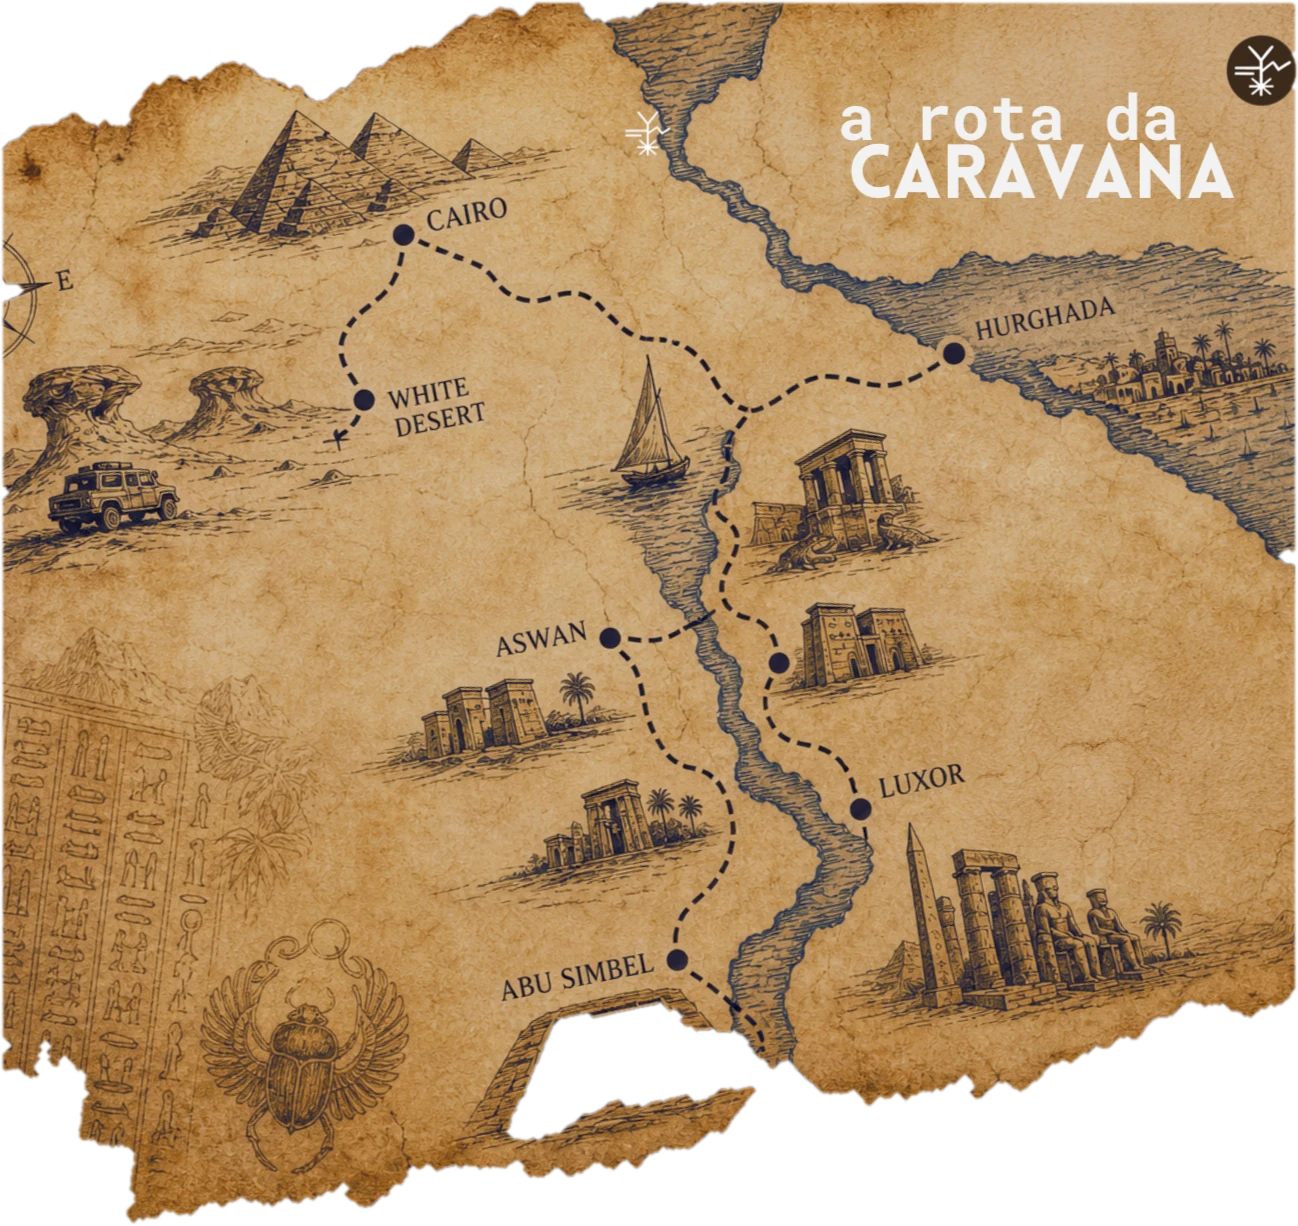
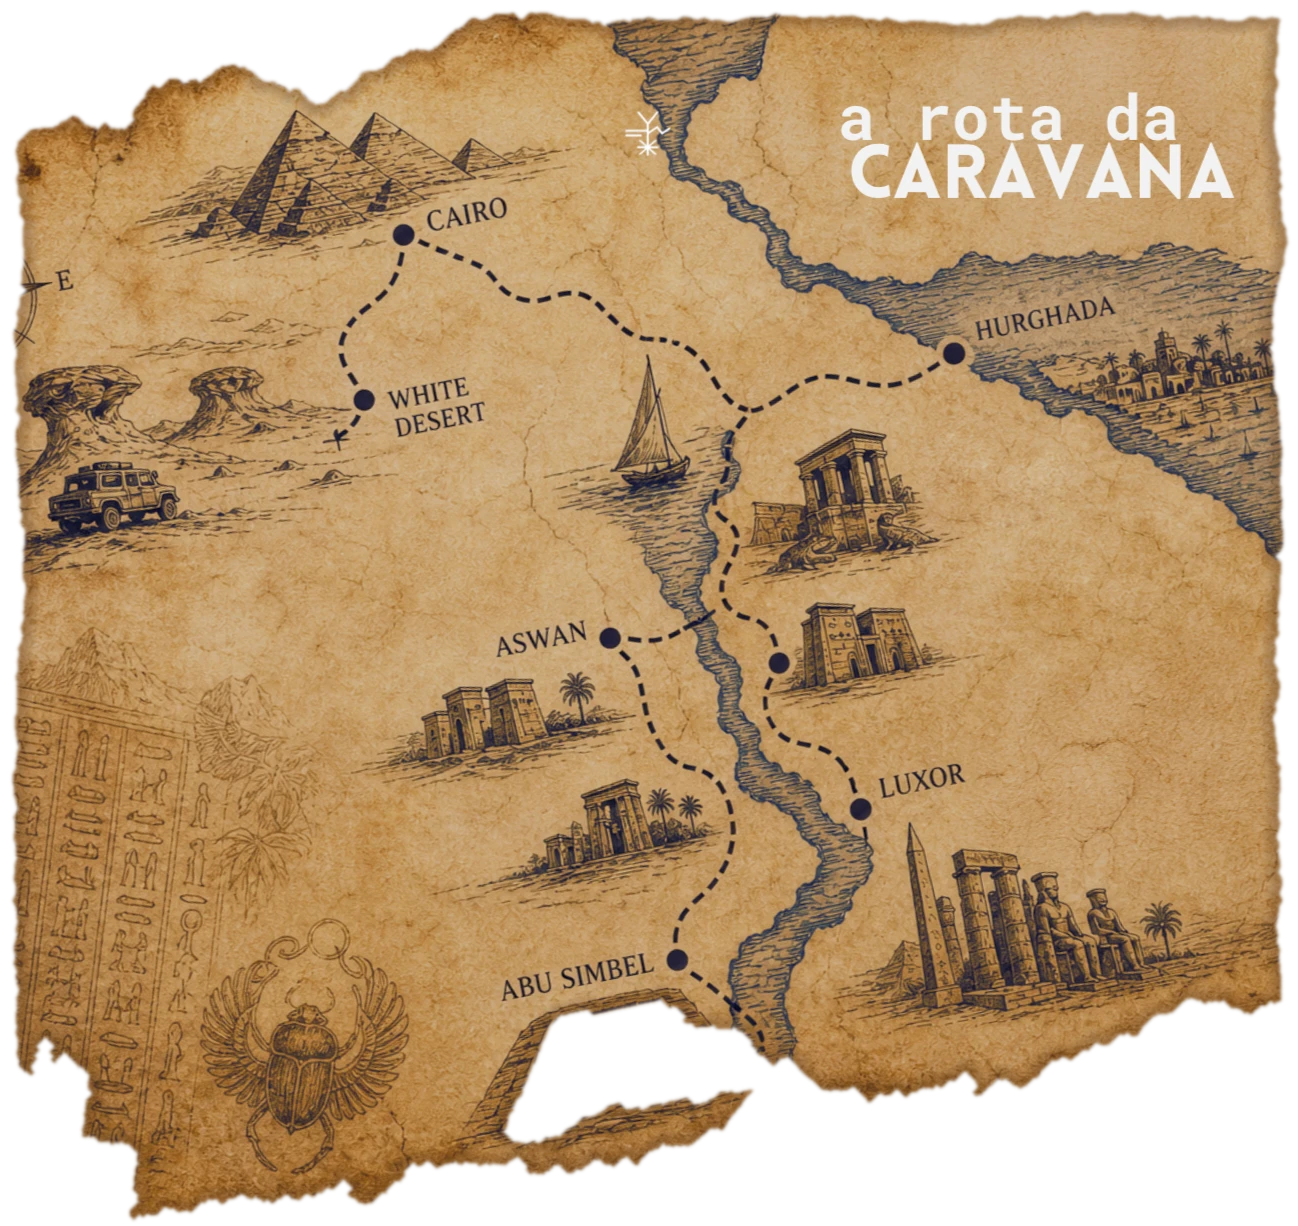
Egito: mapa da página inicial com bordas rasgadas bem acabadas, sem o selo do canto e sem a placa da cidade; frases curtas do Egito que giram numa linha só
Claude-Session: https://claude.ai/code/session_017RJGScnowdndvDzY2p9N3m

diff --git a/APP CARAVANA EGITO/app/caravana-do-ceu.html b/APP CARAVANA EGITO/app/caravana-do-ceu.html
@@ -2168,7 +2168,7 @@ html[data-tab="explorador"] .controls .lab{color:#B5402A;text-shadow:none}
   background:linear-gradient(#3B2A1C,#24180F);border:2px solid #D4A84F;border-radius:6px;box-shadow:0 4px 10px rgba(40,24,10,.4);white-space:nowrap}
 .mmplaca small{font:600 9.5px var(--ui);letter-spacing:.22em;text-transform:uppercase;color:#D4A84F}
 .mmplaca b{font:500 16px/1.15 "Cinzel",Georgia,serif;letter-spacing:.04em;color:#F6E6BF}
-.mapahero .intro{margin-top:18px}
+
 .mapahero .logo.moeda{width:78px;margin-bottom:-4px}
 
 /* no mapa da rota a fase é só um anel em volta do ponto que já está desenhado (sem cobrir os nomes) */
@@ -2181,6 +2181,8 @@ html[data-tab="explorador"] .controls .lab{color:#B5402A;text-shadow:none}
 .mmponto{fill:transparent;stroke:none}
 .mmponto.aceso{fill:#F2C14E;stroke:#7A4A12;stroke-width:2}
 .mmexp{width:12%}
+/* frase que gira embaixo do mapa: sempre uma linha só */
+.mapahero .intro{white-space:nowrap;font-size:clamp(11.5px,3.45vw,15px);min-height:0!important;margin-top:6px;max-width:100%;overflow:hidden;text-overflow:ellipsis}
 </style>
 
 <div class="app">
@@ -2614,30 +2616,26 @@ function contador(n, rotulo) {
 const FRASES = [
   "Treze dias atravessando o Egito de norte a sul.",
   "Uma caravana é feita de quem caminha junto.",
-  "Caminhos abertos e chuva de bênçãos. É o meu destino, é o que vou encontrar.",
+  "Caminhos abertos e chuva de bênçãos.",
   "Cada manhã, uma nova partida.",
   "Eu vim pra Terra pra me vestir de quem eu sou.",
-  "Explorando nossa origem nos damos conta de que somos infinitos.",
-  "Da mítica Atlântida às escolas iniciáticas do Antigo Egito.",
-  "Água, mapas e céu aberto para cada dia da travessia.",
-  "De pirâmides, templos, desertos e o icônico Mar Vermelho.",
-  "Siga a rota, ganhe os carimbos, encontre a caravana.",
-  "Que eu pise com passos firmes no labirinto da mente.",
-  "Vento me leva, vento me eleva pra atravessar todos os mundos.",
-  "Um enigma ainda vivo, inscrito nas pedras, nos templos e nos símbolos.",
-  "Partimos de madrugada, quando as estrelas orientam a rota.",
-  "Especiarias, mapas e força para a longa jornada.",
-  "Eu vou seguindo meu caminho no silêncio do meu ser.",
-  "Tudo o que você precisa para a travessia, num só lugar.",
-  "Eu trarei do silêncio minha paz.",
-  "Você não volta da Caravana. Você chega em casa diferente.",
-  "Nunca foi sobre estar sozinha, sempre foi sobre estar rodeada do que se vê e do invisível.",
+  "Explorando a origem, nos sabemos infinitos.",
+  "Das escolas iniciáticas do Antigo Egito.",
+  "Pirâmides, templos, desertos e o Mar Vermelho.",
+  "Siga a rota, ganhe os carimbos.",
+  "Um enigma ainda vivo, inscrito nas pedras.",
+  "Partimos quando as estrelas orientam a rota.",
+  "O Nilo leva, o deserto ensina.",
+  "Eu trarei do silêncio a minha paz.",
+  "Você chega em casa diferente.",
   "O Egito te ensina que o tempo é outra coisa.",
-  "Eu não sou daqui, eu vim de longe, lá das estrelas.",
-  "Que todo esse percorrer seja um estado de celebração e reencontro.",
+  "Eu vim de longe, lá das estrelas.",
   "A Luz de todas as Luzes é você.",
   "Eu toco o céu e a terra. Sou início e fim.",
-  "Vivendo o que estava escrito, o meu caminho eu vou trilhar."
+  "O meu caminho eu vou trilhar.",
+  "Que o coração fique leve como a pena de Maat.",
+  "Sob o céu de Nut, a caravana descansa.",
+  "Todo amanhecer é Rá nascendo de novo."
 ];
 S.fraseIdx = 0;
 function alturaFrases() {
@@ -2690,8 +2688,7 @@ function vMapaMundo(dias, hoje, f, abrir) {
         "aria-label": `Fase ${q.n}: ${q.c}, dia ${q.dias.join(", ")}`, onclick: () => { S.diaAberto = 0; abrir(q.dias[0]); } },
         l && badgeSrc(l) ? h("img", { src: badgeSrc(l), alt: "" }) : h("b", { text: q.n }),
         feito && i !== atual ? h("i", { class: "mmbandeira", "aria-hidden": "true" }) : null);
-    }), ex,
-    h("div", { class: "mmplaca" }, h("small", { text: f > 0 ? "Ponto de partida" : `Fase ${PARADAS[atual].n} de 7` }), h("b", { text: PARADAS[atual].c })));
+    }), ex);
   // pontinhos da trilha: acesos até a parada de hoje, apagados dali em diante
   requestAnimationFrame(() => {
     if (!svg.isConnected) return;

diff --git a/APP CARAVANA EGITO/tools/egito/tema-gibi.css b/APP CARAVANA EGITO/tools/egito/tema-gibi.css
@@ -294,7 +294,7 @@ html[data-tab="explorador"] .controls .lab{color:#B5402A;text-shadow:none}
   background:linear-gradient(#3B2A1C,#24180F);border:2px solid #D4A84F;border-radius:6px;box-shadow:0 4px 10px rgba(40,24,10,.4);white-space:nowrap}
 .mmplaca small{font:600 9.5px var(--ui);letter-spacing:.22em;text-transform:uppercase;color:#D4A84F}
 .mmplaca b{font:500 16px/1.15 "Cinzel",Georgia,serif;letter-spacing:.04em;color:#F6E6BF}
-.mapahero .intro{margin-top:18px}
+
 .mapahero .logo.moeda{width:78px;margin-bottom:-4px}
 
 /* no mapa da rota a fase é só um anel em volta do ponto que já está desenhado (sem cobrir os nomes) */
@@ -307,3 +307,5 @@ html[data-tab="explorador"] .controls .lab{color:#B5402A;text-shadow:none}
 .mmponto{fill:transparent;stroke:none}
 .mmponto.aceso{fill:#F2C14E;stroke:#7A4A12;stroke-width:2}
 .mmexp{width:12%}
+/* frase que gira embaixo do mapa: sempre uma linha só */
+.mapahero .intro{white-space:nowrap;font-size:clamp(11.5px,3.45vw,15px);min-height:0!important;margin-top:6px;max-width:100%;overflow:hidden;text-overflow:ellipsis}

diff --git a/APP CARAVANA EGITO/tools/egito/js/mapa-mundo.js b/APP CARAVANA EGITO/tools/egito/js/mapa-mundo.js
@@ -33,8 +33,7 @@ function vMapaMundo(dias, hoje, f, abrir) {
         "aria-label": `Fase ${q.n}: ${q.c}, dia ${q.dias.join(", ")}`, onclick: () => { S.diaAberto = 0; abrir(q.dias[0]); } },
         l && badgeSrc(l) ? h("img", { src: badgeSrc(l), alt: "" }) : h("b", { text: q.n }),
         feito && i !== atual ? h("i", { class: "mmbandeira", "aria-hidden": "true" }) : null);
-    }), ex,
-    h("div", { class: "mmplaca" }, h("small", { text: f > 0 ? "Ponto de partida" : `Fase ${PARADAS[atual].n} de 7` }), h("b", { text: PARADAS[atual].c })));
+    }), ex);
   // pontinhos da trilha: acesos até a parada de hoje, apagados dali em diante
   requestAnimationFrame(() => {
     if (!svg.isConnected) return;

diff --git a/APP CARAVANA EGITO/tools/egito/frases.py b/APP CARAVANA EGITO/tools/egito/frases.py
@@ -1,0 +1,30 @@
+# Frases curtas que giram embaixo do título da página inicial (cabem numa linha só no celular).
+import pathlib, re
+p = pathlib.Path(__file__).resolve().parents[2] / "app" / "caravana-do-ceu.html"
+t = p.read_text()
+LISTA = """const FRASES = [
+  "Treze dias atravessando o Egito de norte a sul.",
+  "Uma caravana é feita de quem caminha junto.",
+  "Caminhos abertos e chuva de bênçãos.",
+  "Cada manhã, uma nova partida.",
+  "Eu vim pra Terra pra me vestir de quem eu sou.",
+  "Explorando a origem, nos sabemos infinitos.",
+  "Das escolas iniciáticas do Antigo Egito.",
+  "Pirâmides, templos, desertos e o Mar Vermelho.",
+  "Siga a rota, ganhe os carimbos.",
+  "Um enigma ainda vivo, inscrito nas pedras.",
+  "Partimos quando as estrelas orientam a rota.",
+  "O Nilo leva, o deserto ensina.",
+  "Eu trarei do silêncio a minha paz.",
+  "Você chega em casa diferente.",
+  "O Egito te ensina que o tempo é outra coisa.",
+  "Eu vim de longe, lá das estrelas.",
+  "A Luz de todas as Luzes é você.",
+  "Eu toco o céu e a terra. Sou início e fim.",
+  "O meu caminho eu vou trilhar.",
+  "Que o coração fique leve como a pena de Maat.",
+  "Sob o céu de Nut, a caravana descansa.",
+  "Todo amanhecer é Rá nascendo de novo."
+];"""
+t = re.sub(r'const FRASES = \[\n.*?\n\];', lambda m: LISTA, t, count=1, flags=re.S)
+p.write_text(t); print("frases")
